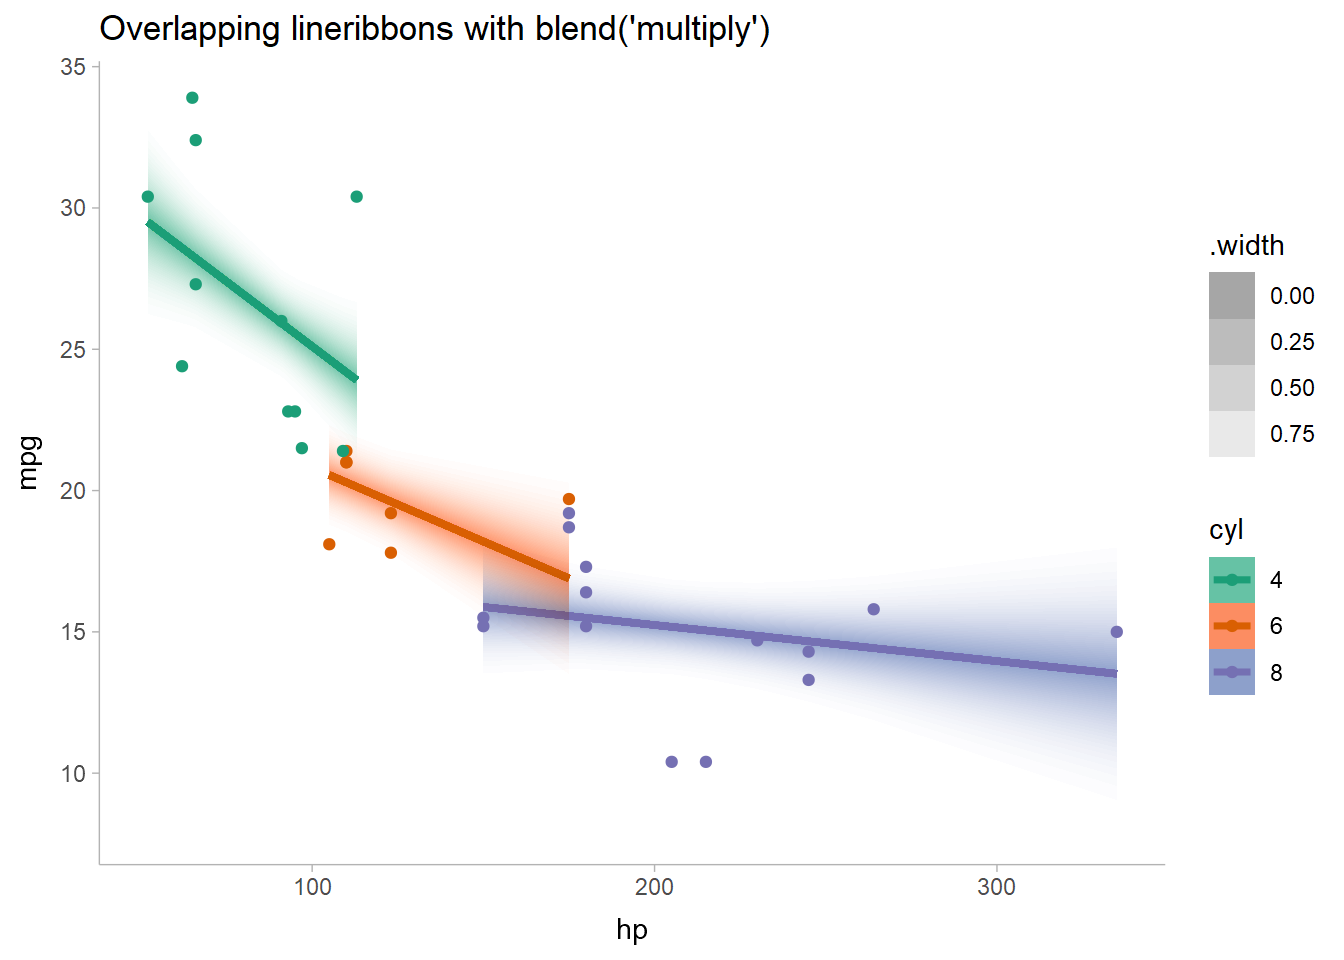
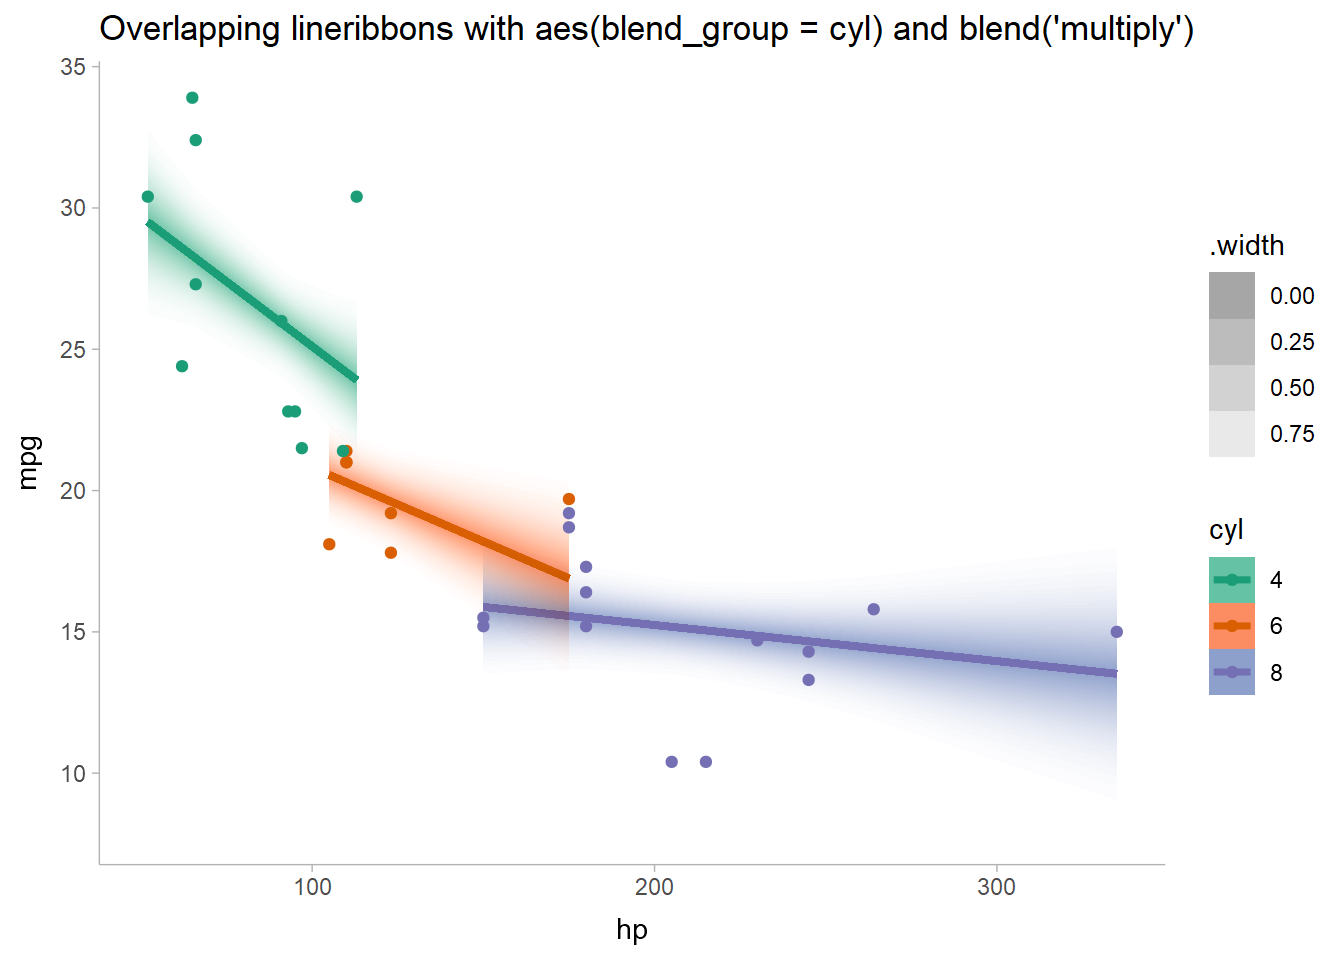
better title on lineribbon plot

Changed region(s): [[0.625, 0.0, 0.875, 0.0625], [0.4062, 0.0, 0.5938, 0.0625]]

diff --git a/README.md b/README.md
@@ -258,7 +258,7 @@ predictions |>
   scale_color_brewer(palette = "Dark2") +
   ggdist::scale_fill_ramp_continuous(range = c(1, 0)) +
   labs(
-    title = "Overlapping lineribbons with blend('multiply')", 
+    title = "Overlapping lineribbons with aes(blend_group = cyl) and blend('multiply')", 
     color = "cyl", fill = "cyl", y = "mpg"
   ) +
   ggdist::theme_ggdist()
